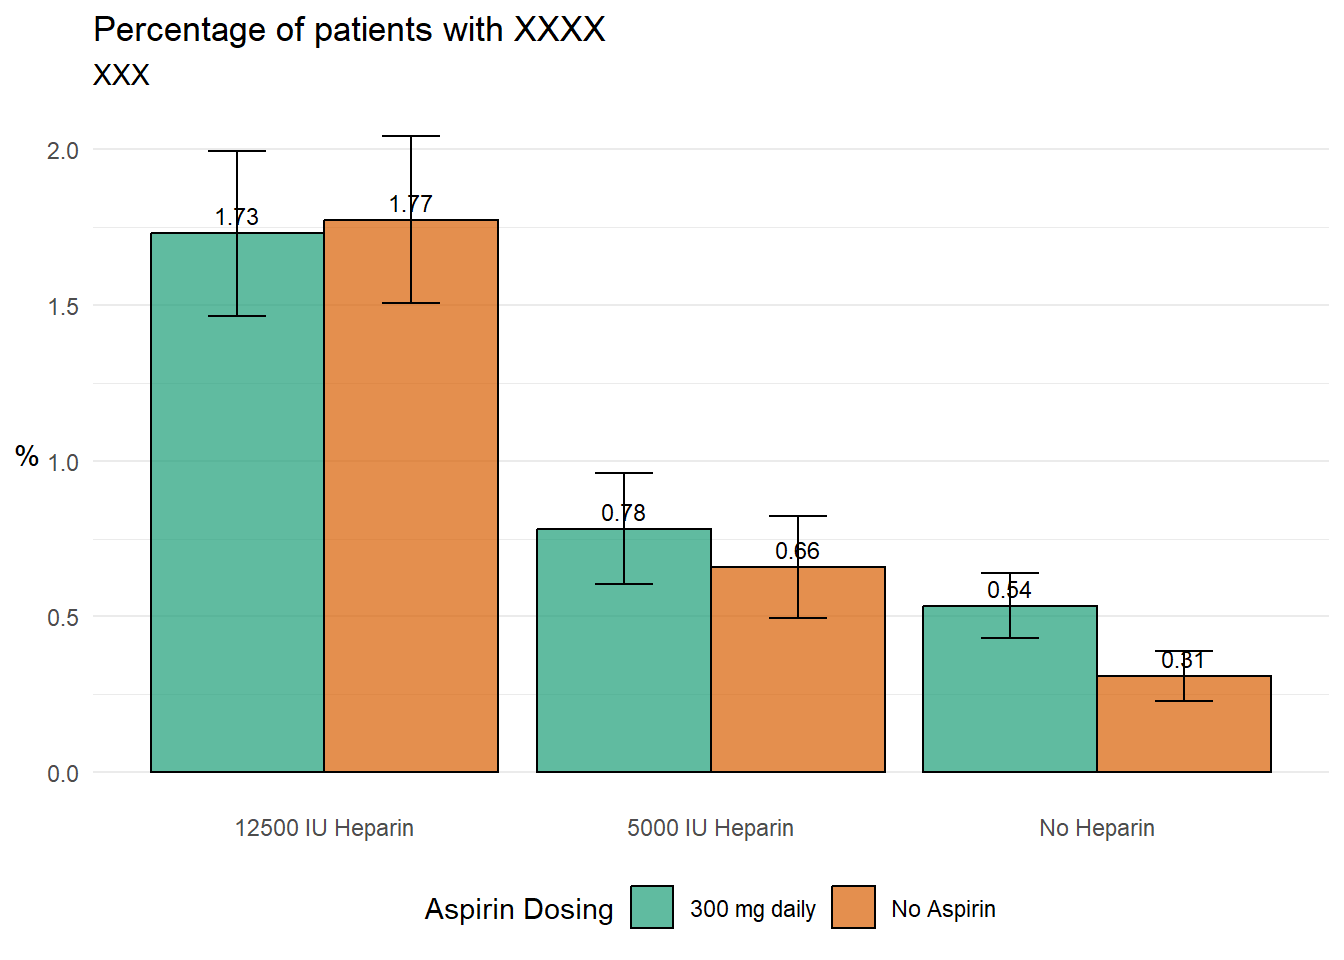
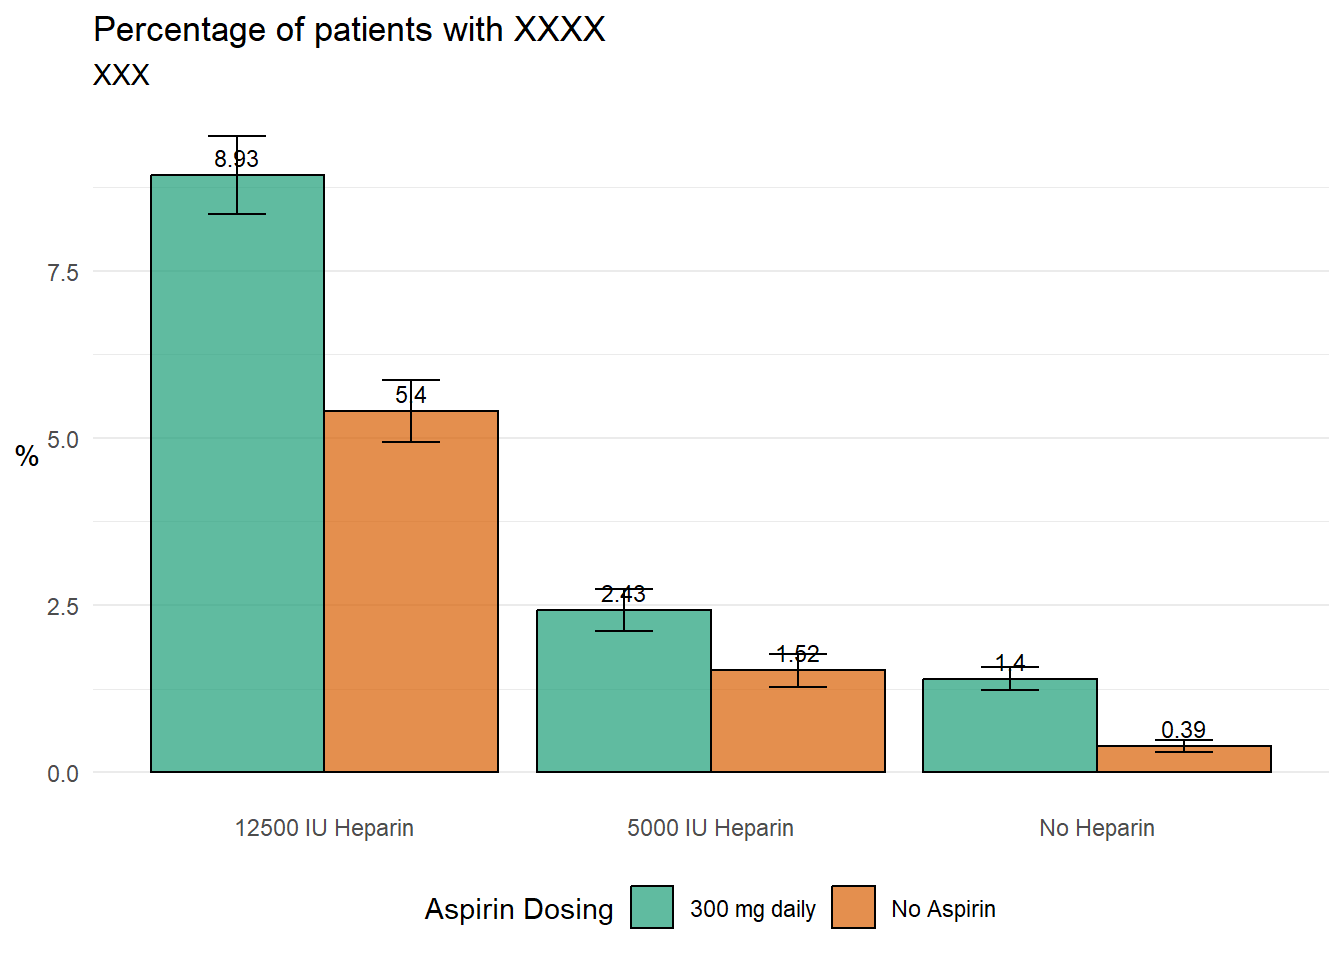
Creating function to make boxplot depending on the column name

diff --git a/R/12_analysis_8_figure5C.html b/R/12_analysis_8_figure5C.html
@@ -103,8 +103,8 @@ pre > code.sourceCode > span > a:first-child::before { text-decoration: underlin
 </header>
 
 
-<section id="data-analysis---xxx-find-out-what-to-replace-h14-with" class="level2">
-<h2 class="anchored" data-anchor-id="data-analysis---xxx-find-out-what-to-replace-h14-with">Data analysis - XXX FIND OUT WHAT TO REPLACE H14 with</h2>
+<section id="data-analysis---xxx-find-out-what-to-replace-ncb14-with" class="level2">
+<h2 class="anchored" data-anchor-id="data-analysis---xxx-find-out-what-to-replace-ncb14-with">Data analysis - XXX FIND OUT WHAT TO REPLACE NCB14 with</h2>
 <p>Creation of figure 5C</p>
 </section>
 <section id="loading-libraries" class="level2">
@@ -160,25 +160,25 @@ lgl  (1): DDEAD
 <p>In order to make the correct plot, it is necessary to use the same variables as the authors of the article. In order to validate that the correct variables have been identified a table summing the number of patients in each group is made:</p>
 <div class="cell">
 <div class="sourceCode cell-code" id="cb12"><pre class="sourceCode r code-with-copy"><code class="sourceCode r"><span id="cb12-1"><a href="#cb12-1" aria-hidden="true" tabindex="-1"></a>data <span class="sc">|&gt;</span> </span>
-<span id="cb12-2"><a href="#cb12-2" aria-hidden="true" tabindex="-1"></a>  <span class="fu">group_by</span>(RXASP,RXHEP,H14) <span class="sc">|&gt;</span> </span>
+<span id="cb12-2"><a href="#cb12-2" aria-hidden="true" tabindex="-1"></a>  <span class="fu">group_by</span>(RXASP,RXHEP,NCB14) <span class="sc">|&gt;</span> </span>
 <span id="cb12-3"><a href="#cb12-3" aria-hidden="true" tabindex="-1"></a>  <span class="fu">count</span>()</span></code><button title="Copy to Clipboard" class="code-copy-button"><i class="bi"></i></button></pre></div>
 <div class="cell-output cell-output-stdout">
 <pre><code># A tibble: 12 × 4
-# Groups:   RXASP, RXHEP, H14 [12]
-   RXASP RXHEP H14       n
+# Groups:   RXASP, RXHEP, NCB14 [12]
+   RXASP RXHEP NCB14     n
    &lt;chr&gt; &lt;chr&gt; &lt;chr&gt; &lt;int&gt;
- 1 N     L     N      2413
- 2 N     L     Y        16
- 3 N     M     N      2383
- 4 N     M     Y        43
- 5 N     N     N      4845
- 6 N     N     Y        15
- 7 Y     L     N      2413
- 8 Y     L     Y        19
- 9 Y     M     N      2388
-10 Y     M     Y        42
-11 Y     N     N      4832
-12 Y     N     Y        26</code></pre>
+ 1 N     L     N      2392
+ 2 N     L     Y        37
+ 3 N     M     N      2295
+ 4 N     M     Y       131
+ 5 N     N     N      4841
+ 6 N     N     Y        19
+ 7 Y     L     N      2373
+ 8 Y     L     Y        59
+ 9 Y     M     N      2213
+10 Y     M     Y       217
+11 Y     N     N      4790
+12 Y     N     Y        68</code></pre>
 </div>
 </div>
 <p>The numbers here seems to fit the numbers from figure 5.C to the extent that it can be read. XXX</p>
@@ -188,13 +188,13 @@ lgl  (1): DDEAD
 <p>In order to make the data set smaller and more clearly arranged, all other columns than the three relevant, are removed:</p>
 <div class="cell">
 <div class="sourceCode cell-code" id="cb14"><pre class="sourceCode r code-with-copy"><code class="sourceCode r"><span id="cb14-1"><a href="#cb14-1" aria-hidden="true" tabindex="-1"></a>relevant_data <span class="ot">&lt;-</span> data <span class="sc">|&gt;</span> </span>
-<span id="cb14-2"><a href="#cb14-2" aria-hidden="true" tabindex="-1"></a>  <span class="fu">select</span>(RXHEP, RXASP, H14) </span></code><button title="Copy to Clipboard" class="code-copy-button"><i class="bi"></i></button></pre></div>
+<span id="cb14-2"><a href="#cb14-2" aria-hidden="true" tabindex="-1"></a>  <span class="fu">select</span>(RXHEP, RXASP, NCB14) </span></code><button title="Copy to Clipboard" class="code-copy-button"><i class="bi"></i></button></pre></div>
 </div>
 <p>The plot has percentages of reported XXX on the y-axis. Such a variable is created.</p>
 <div class="cell">
 <div class="sourceCode cell-code" id="cb15"><pre class="sourceCode r code-with-copy"><code class="sourceCode r"><span id="cb15-1"><a href="#cb15-1" aria-hidden="true" tabindex="-1"></a>percentage_data <span class="ot">&lt;-</span> relevant_data <span class="sc">|&gt;</span></span>
 <span id="cb15-2"><a href="#cb15-2" aria-hidden="true" tabindex="-1"></a>  <span class="co">#Counts the patients in each group</span></span>
-<span id="cb15-3"><a href="#cb15-3" aria-hidden="true" tabindex="-1"></a>  <span class="fu">group_by</span>(RXHEP, RXASP, H14) <span class="sc">|&gt;</span> </span>
+<span id="cb15-3"><a href="#cb15-3" aria-hidden="true" tabindex="-1"></a>  <span class="fu">group_by</span>(RXHEP, RXASP, NCB14) <span class="sc">|&gt;</span> </span>
 <span id="cb15-4"><a href="#cb15-4" aria-hidden="true" tabindex="-1"></a>  <span class="fu">count</span>() <span class="sc">|&gt;</span> </span>
 <span id="cb15-5"><a href="#cb15-5" aria-hidden="true" tabindex="-1"></a>  <span class="co">#Creates the six groups examined</span></span>
 <span id="cb15-6"><a href="#cb15-6" aria-hidden="true" tabindex="-1"></a>  <span class="fu">group_by</span>(RXHEP, RXASP) <span class="sc">|&gt;</span> </span>
@@ -204,7 +204,7 @@ lgl  (1): DDEAD
 <span id="cb15-10"><a href="#cb15-10" aria-hidden="true" tabindex="-1"></a>         <span class="at">p =</span> n <span class="sc">/</span> total_in_group,</span>
 <span id="cb15-11"><a href="#cb15-11" aria-hidden="true" tabindex="-1"></a>         <span class="at">se =</span> <span class="fu">sqrt</span>(p <span class="sc">*</span> (<span class="dv">1</span> <span class="sc">-</span> p) <span class="sc">/</span> total_in_group) <span class="sc">*</span> <span class="dv">100</span>) <span class="sc">|&gt;</span> </span>
 <span id="cb15-12"><a href="#cb15-12" aria-hidden="true" tabindex="-1"></a>  <span class="co">#Removes all patients with no reported pulmonary embolism</span></span>
-<span id="cb15-13"><a href="#cb15-13" aria-hidden="true" tabindex="-1"></a>  <span class="fu">filter</span>(H14 <span class="sc">!=</span> <span class="st">"N"</span>) </span></code><button title="Copy to Clipboard" class="code-copy-button"><i class="bi"></i></button></pre></div>
+<span id="cb15-13"><a href="#cb15-13" aria-hidden="true" tabindex="-1"></a>  <span class="fu">filter</span>(NCB14 <span class="sc">!=</span> <span class="st">"N"</span>) </span></code><button title="Copy to Clipboard" class="code-copy-button"><i class="bi"></i></button></pre></div>
 </div>
 <p>To get the same order of the columns in the plot, the factors are applied to the data:</p>
 <div class="cell">
